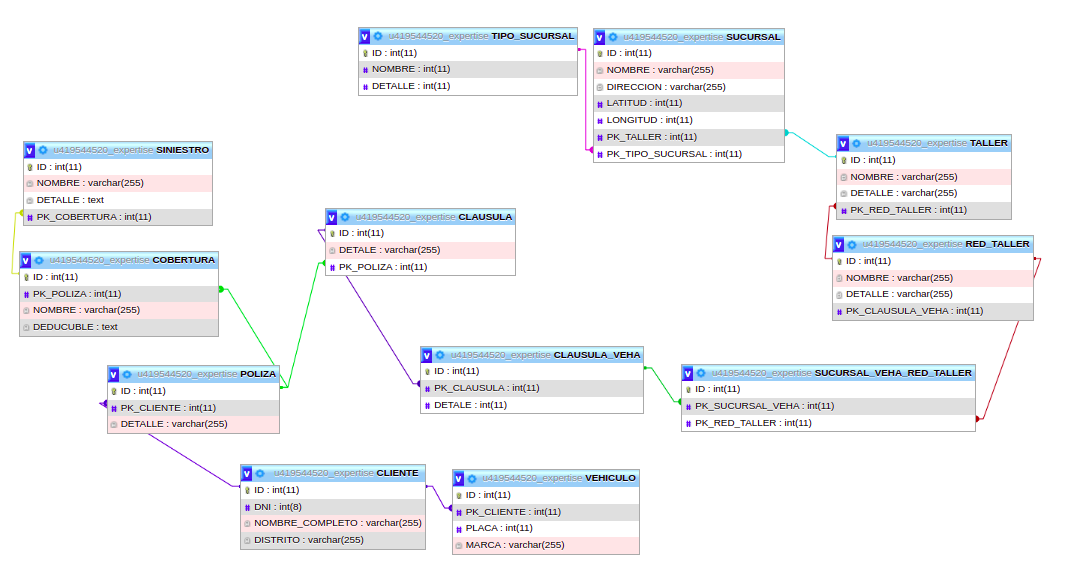
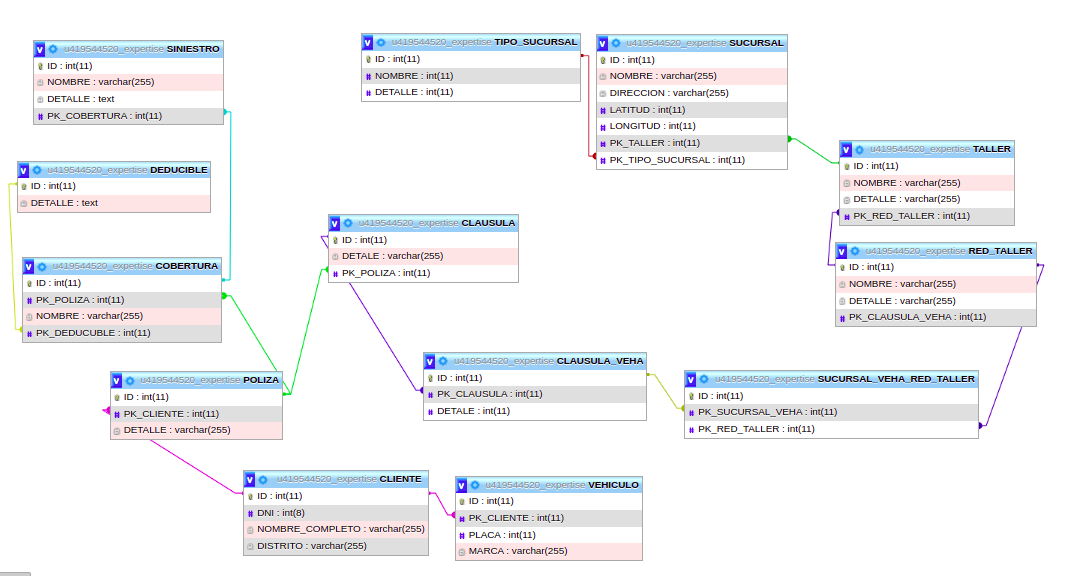
fix filtro

diff --git a/bd/queries.js b/bd/queries.js
@@ -1,6 +1,26 @@
 const buscadorTallerQuery = (placa, distrito, tipo_taller) => {
     
-    return ``
+    return `
+SELECT 
+	DEDUCIBLE.ID AS deducible, 
+    DEDUCIBLE.PAGO AS copago, 
+    DEDUCIBLE.MONEDA AS moneda,
+    TIPO_SUCURSAL.NOMBRE AS tipo,
+    VEHICULO.MARCA AS marca,
+    TALLER.NOMBRE AS taller
+FROM DEDUCIBLE
+INNER JOIN COBERTURA ON DEDUCIBLE.ID = COBERTURA.PK_DEDUCUBLE
+INNER JOIN POLIZA ON COBERTURA.PK_POLIZA = POLIZA.ID
+INNER JOIN VEHICULO ON POLIZA.PK_VEHICULO = VEHICULO.ID
+INNER JOIN CLIENTE ON VEHICULO.PK_CLIENTE = CLIENTE.ID
+INNER JOIN CLAUSULA ON POLIZA.ID = CLAUSULA.PK_POLIZA
+INNER JOIN CLAUSULA_VEHA ON CLAUSULA.ID = CLAUSULA_VEHA.PK_CLAUSULA
+INNER JOIN SUCURSAL_VEHA_RED_TALLER ON CLAUSULA_VEHA.ID = SUCURSAL_VEHA_RED_TALLER.PK_SUCURSAL_VEHA
+INNER JOIN RED_TALLER ON SUCURSAL_VEHA_RED_TALLER.PK_RED_TALLER = RED_TALLER.ID
+INNER JOIN TALLER ON RED_TALLER.ID = TALLER.PK_RED_TALLER
+INNER JOIN SUCURSAL ON TALLER.ID = SUCURSAL.PK_TALLER
+INNER JOIN TIPO_SUCURSAL ON SUCURSAL.PK_TIPO_SUCURSAL = TIPO_SUCURSAL.ID
+WHERE VEHICULO.PLACA = ${VEHICULO} AND CLIENTE.DISTRITO = ${DISTRITO} AND TIPO_SUCURSAL.NOMBRE = ${TIPO_SUCURSAL}`
 };
 
 exports.buscadorTallerQuery = buscadorTallerQuery;
